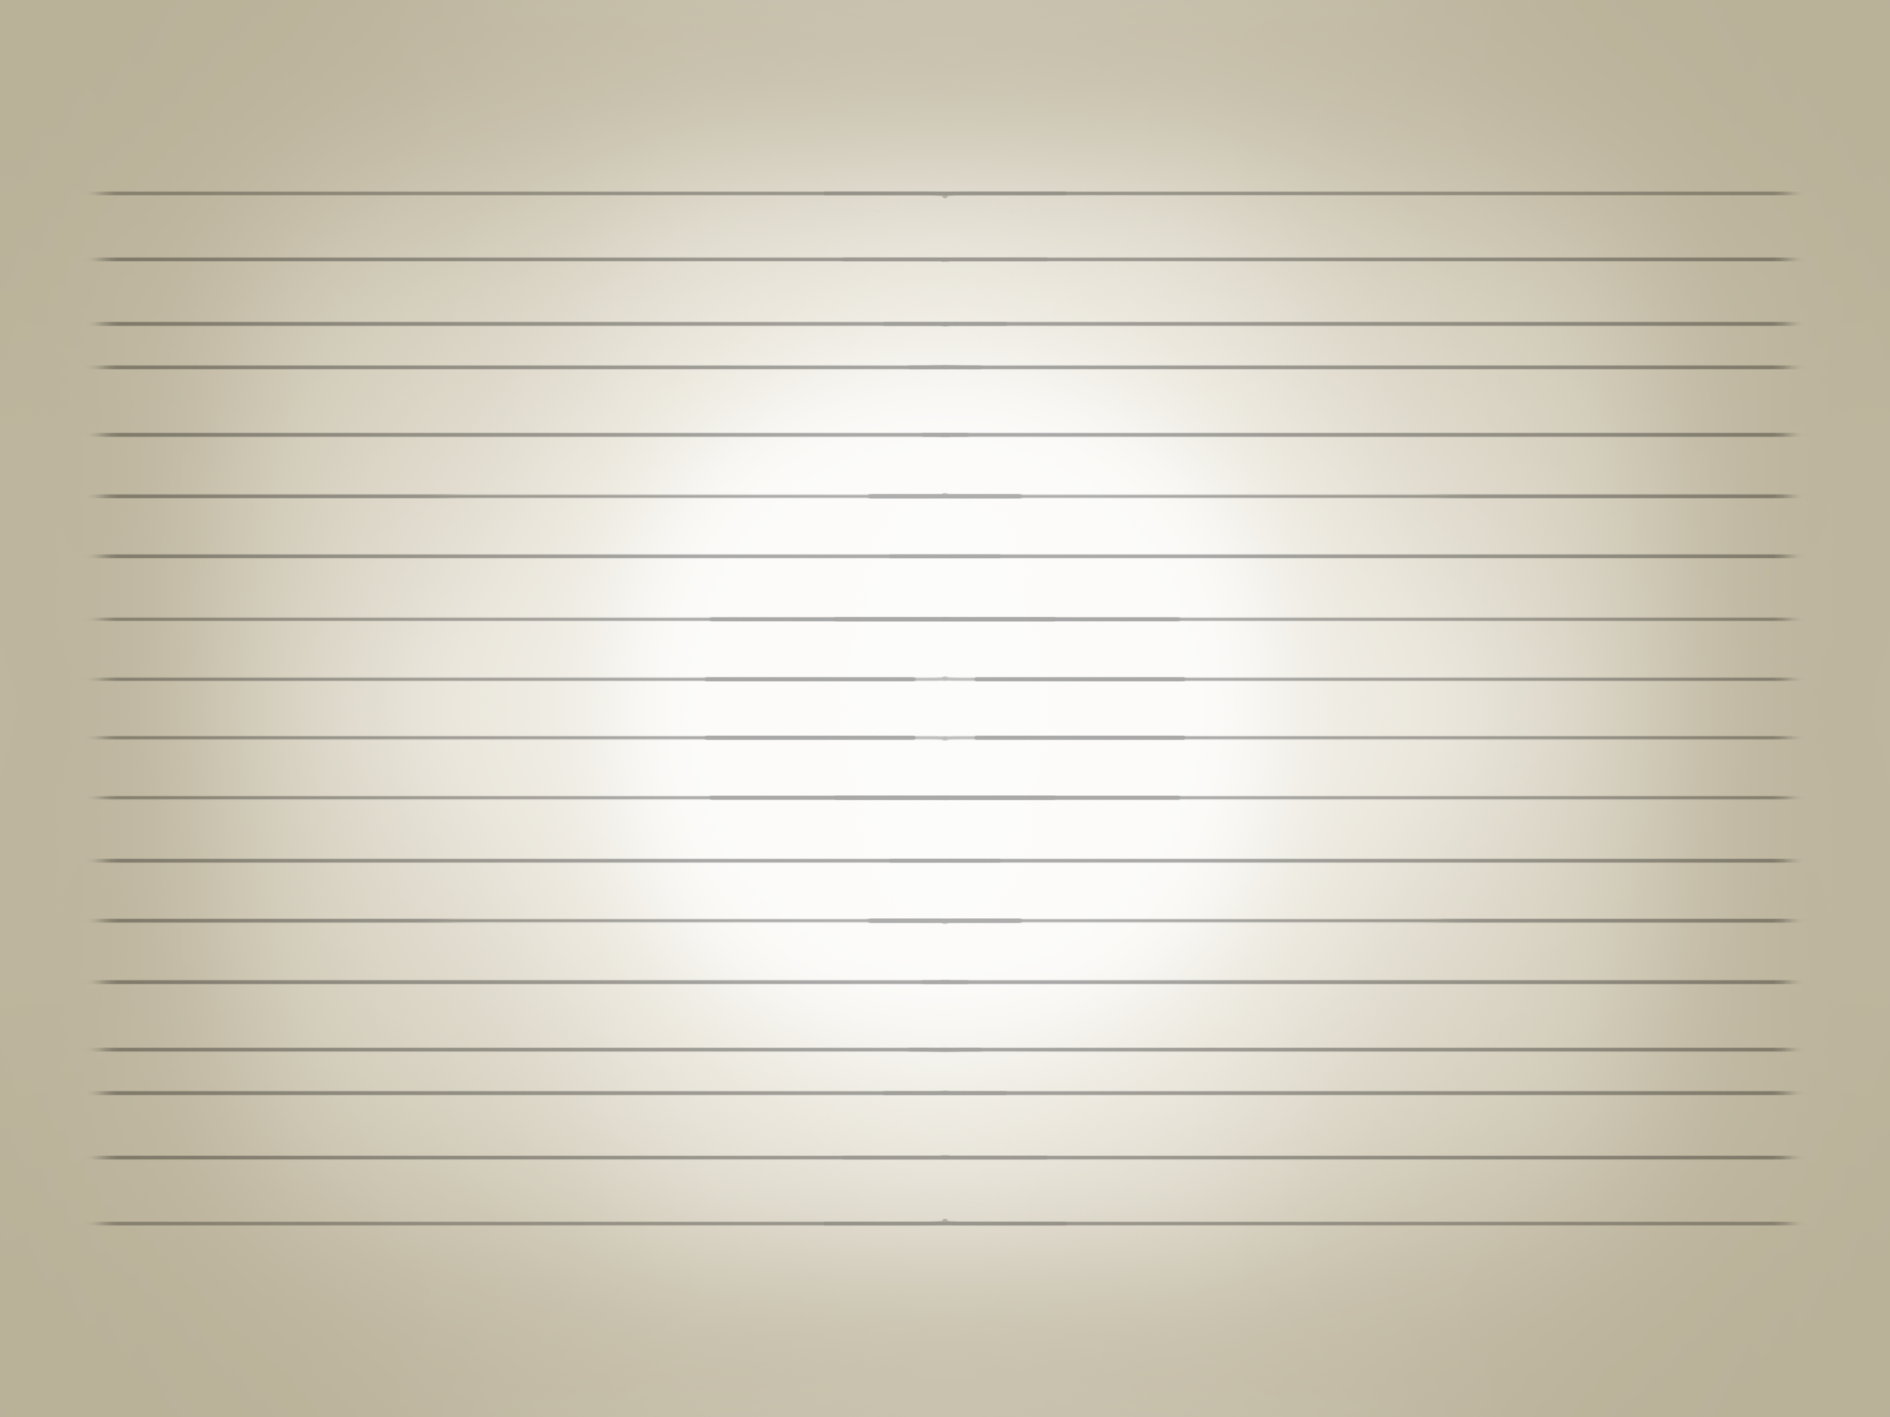
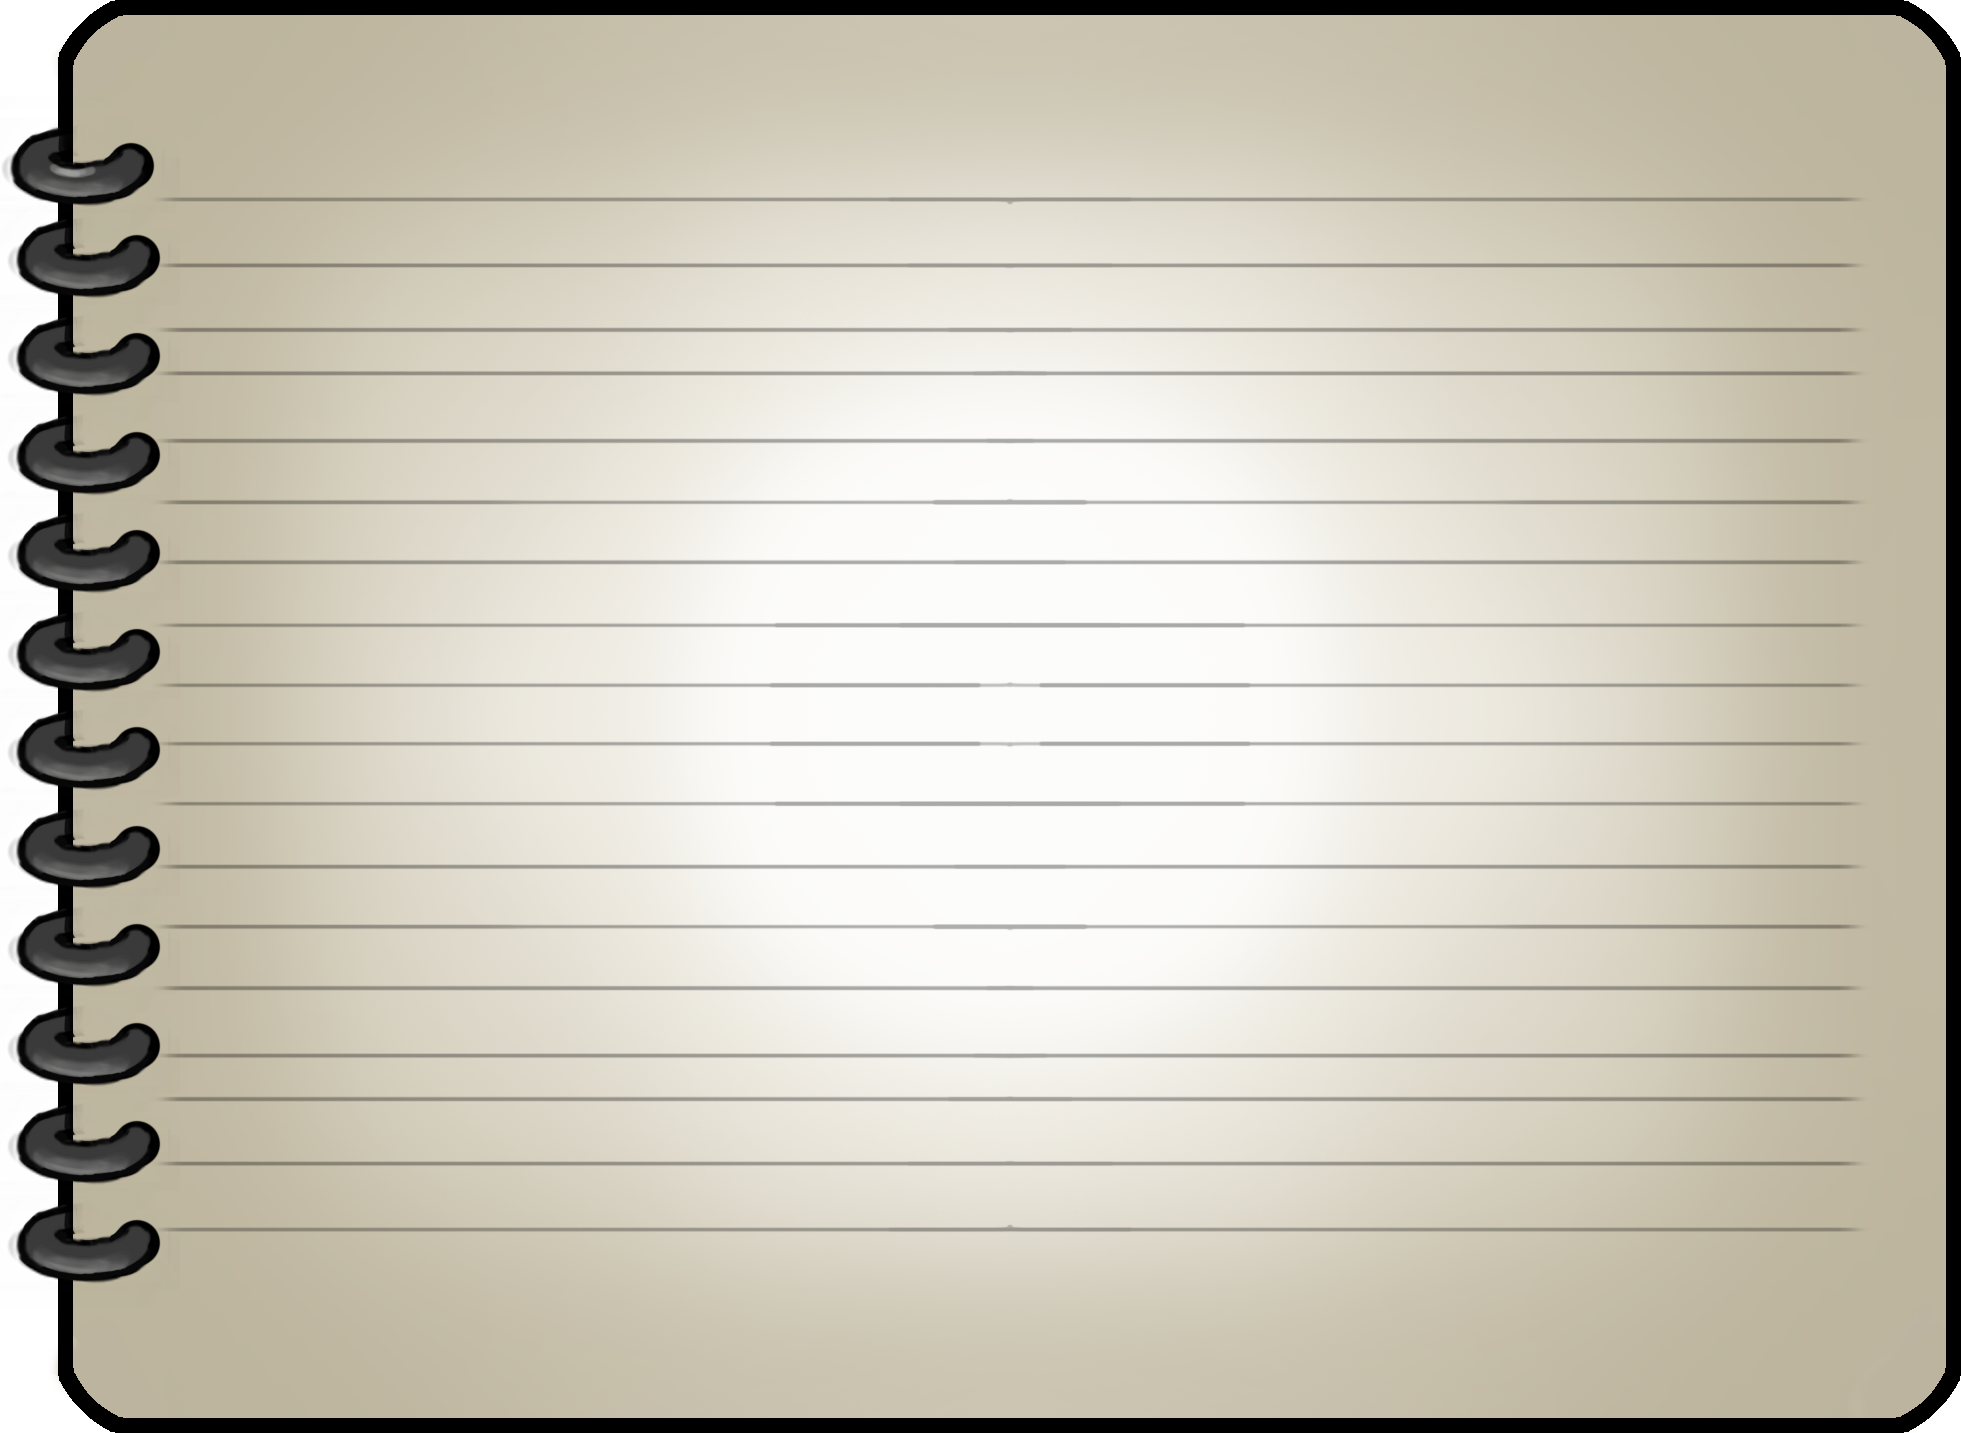
Changed PoliceCatch Art

Changed region(s): [[0.0, 0.0, 1.0, 1.0]]

diff --git a/Assets/Scripts/Scenes/GameScene.cs b/Assets/Scripts/Scenes/GameScene.cs
@@ -16,10 +16,10 @@ public class GameScene : BaseScene
         GameObject go = Managers.Resource.Instantiate("Player");
         go.name = "Player";
         
-        GameObject student = Managers.Resource.Instantiate("StudentRoot");
+        GameObject student = Managers.Resource.Instantiate("PoliceRoot");
         student.transform.SetParent(go.transform);
         
-        go.GetOrAddComponent<Student>();
+        go.GetOrAddComponent<Police>();
     }
     
     public override void Clear()

diff --git a/Assets/Scripts/Trigger/SM_PoliceCatchTrigger.cs b/Assets/Scripts/Trigger/SM_PoliceCatchTrigger.cs
@@ -8,8 +8,8 @@ public class SM_PoliceCatchTrigger : MonoBehaviour
 {
     public void Init()
     {
-        // Managers.Mission.SMStart -= MissionStart;
-        // Managers.Mission.SMStart += MissionStart;
+        Managers.Mission.SMStart -= MissionStart;
+        Managers.Mission.SMStart += MissionStart;
     }
     
     private void Start()
